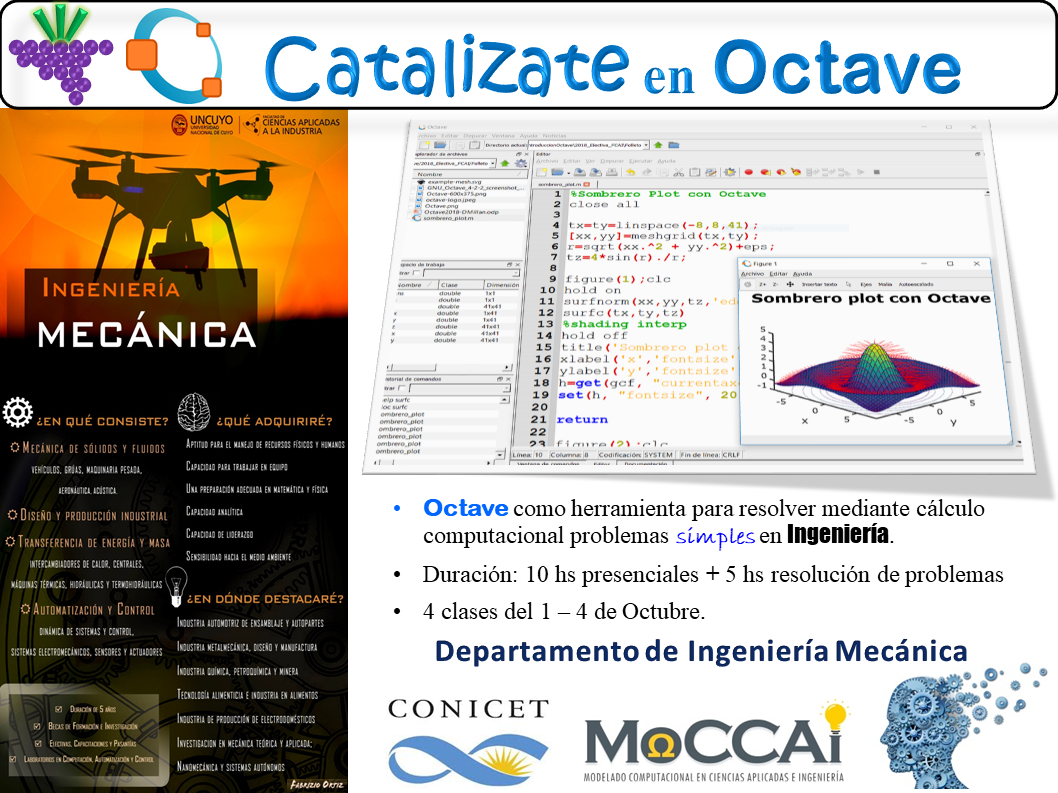
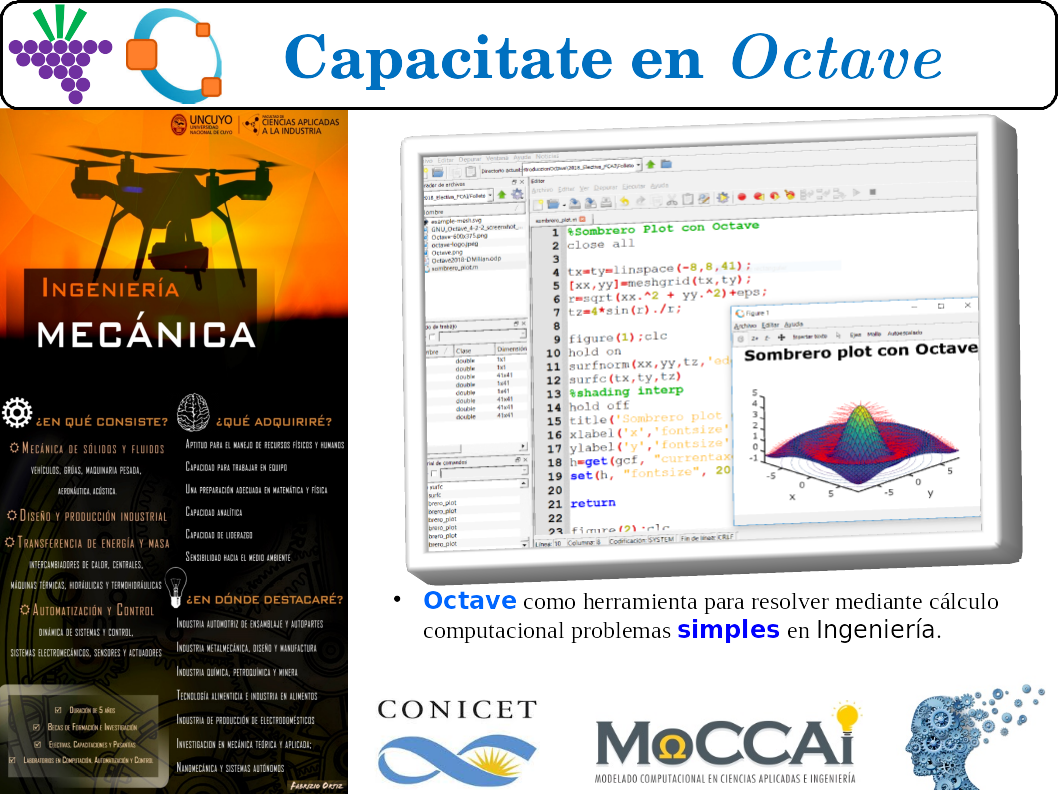
Version 1

diff --git a/index.html b/index.html
@@ -14,7 +14,7 @@
   </head>
   <body>
     <header id="header" class="navbar navbar-default navbar-fixed-top">
-      <div class="container"> <a href="index.html" class="navbar-brand">Capacitate en OCTAVE - JEIC 2019</a>
+      <div class="container"> <a href="index.html" class="navbar-brand">Capacitate en OCTAVE - JEICE 2019</a>
         <div class="navbar-header"> <button class="navbar-toggle" type="button" data-toggle="collapse" data-target="#navbar-main"> <span class="icon-bar"></span>
             <span class="icon-bar"></span> <span class="icon-bar"></span> </button>
         </div>
@@ -44,15 +44,12 @@
     <div class="site-content container">
       <div class="col-md-9">
 <p><a rel="license" href="http://creativecommons.org/licenses/by-nc-sa/4.0/"><img alt="Licencia Creative Commons" style="WIDTH:100px; HEIGHT:30px; border-width:0" src="https://i.creativecommons.org/l/by-nc-sa/4.0/88x31.png" /></a><br />Esta obra está bajo una <a rel="license" href="http://creativecommons.org/licenses/by-nc-sa/4.0/">Licencia Creative Commons Atribución-NoComercial-CompartirIgual 4.0 Internacional</a></p>
-<br>      
-      
-        <p><img {width: 90%;} src="index_archivos/logouncuyofcai.png"></p>
-        <p><img {width: 100%;} src="index_archivos/Capacitoctave.png" ></p>
+        <p><img {width: 90%;} src="index_archivos/jeice_volante.jpeg" ></p>
+        <p><img {width: 90%;} src="index_archivos/capacitoctave.png" ></p>
 
 <hr>
- <hr>
-        <h1 id="catalizate-en-octave">Catalizate en OCTAVE</h1>
-        <p>Este curso está orientado a estudiantes de ingeniería que deseen adquirir conocimientos básicos y algunas habilidades en el empleo de programas desarrollados en <strong>lenguaje m</strong> que se ejecutan en <strong>Octave/Matlab</strong>. Durante el curso se trabajará especialmente en desarrollar aspectos de cálculo vectorial mediante el empleo de Octave, dirigido a resolver ciertos problemas simples en ciencias aplicadas e ingeniería.</p>
+         <h1 id="capacitate-en-octave">Capacitate en OCTAVE</h1>
+        <p>Este curso está orientado a docentes del nivel medio y superior que deseen adquirir conocimientos básicos y algunas habilidades en el empleo de programas desarrollados en <strong>lenguaje m</strong> que se ejecutan en <strong>Octave/Matlab</strong>. Durante el curso se trabajará especialmente en desarrollar aspectos de cálculo vectorial mediante el empleo de Octave, dirigido a resolver ciertos problemas simples en ciencias aplicadas e ingeniería.</p>
 
 		El curso está organizado por <a href="https://sites.google.com/view/moccai">MoCCAI</a> y el Departamento de Ingeniería Mecánica de la <a href="http://fcai.uncuyo.edu.ar/estudios/carrera/ingenieria-mecanica">FCAI-UNCuyo</a>.
 		

diff --git a/about.html b/about.html
@@ -14,7 +14,7 @@
   </head>
   <body>
     <header id="header" class="navbar navbar-default navbar-fixed-top">
-      <div class="container"> <a href="index.html" class="navbar-brand">Capacitate en OCTAVE - JEIC 2019</a>
+      <div class="container"> <a href="index.html" class="navbar-brand">Capacitate en OCTAVE - JEICE 2019</a>
         <div class="navbar-header"> <button class="navbar-toggle" type="button" data-toggle="collapse" data-target="#navbar-main"> <span class="icon-bar"></span>
             <span class="icon-bar"></span> <span class="icon-bar"></span> </button>
         </div>

diff --git a/biblio.html b/biblio.html
@@ -14,7 +14,7 @@
   </head>
   <body>
     <header id="header" class="navbar navbar-default navbar-fixed-top">
-      <div class="container"> <a href="index.html" class="navbar-brand">Capacitate en OCTAVE - JEIC 2019</a>
+      <div class="container"> <a href="index.html" class="navbar-brand">Capacitate en OCTAVE - JEICE 2019</a>
         <div class="navbar-header"> <button class="navbar-toggle" type="button" data-toggle="collapse" data-target="#navbar-main"> <span class="icon-bar"></span>
             <span class="icon-bar"></span> <span class="icon-bar"></span> </button>
         </div>

diff --git a/clases.html b/clases.html
@@ -14,7 +14,7 @@
   </head>
   <body>
     <header id="header" class="navbar navbar-default navbar-fixed-top">
-      <div class="container"> <a href="index.html" class="navbar-brand">Capacitate en OCTAVE - JEIC 2019</a>
+      <div class="container"> <a href="index.html" class="navbar-brand">Capacitate en OCTAVE - JEICE 2019</a>
         <div class="navbar-header"> <button class="navbar-toggle" type="button" data-toggle="collapse" data-target="#navbar-main"> <span class="icon-bar"></span>
             <span class="icon-bar"></span> <span class="icon-bar"></span> </button>
         </div>

diff --git a/practicas.html b/practicas.html
@@ -14,7 +14,7 @@
   </head>
   <body>
     <header id="header" class="navbar navbar-default navbar-fixed-top">
-      <div class="container"> <a href="index.html" class="navbar-brand">Capacitate en OCTAVE - JEIC 2019</a>
+      <div class="container"> <a href="index.html" class="navbar-brand">Capacitate en OCTAVE - JEICE 2019</a>
         <div class="navbar-header"> <button class="navbar-toggle" type="button" data-toggle="collapse" data-target="#navbar-main"> <span class="icon-bar"></span>
             <span class="icon-bar"></span> <span class="icon-bar"></span> </button>
         </div>
